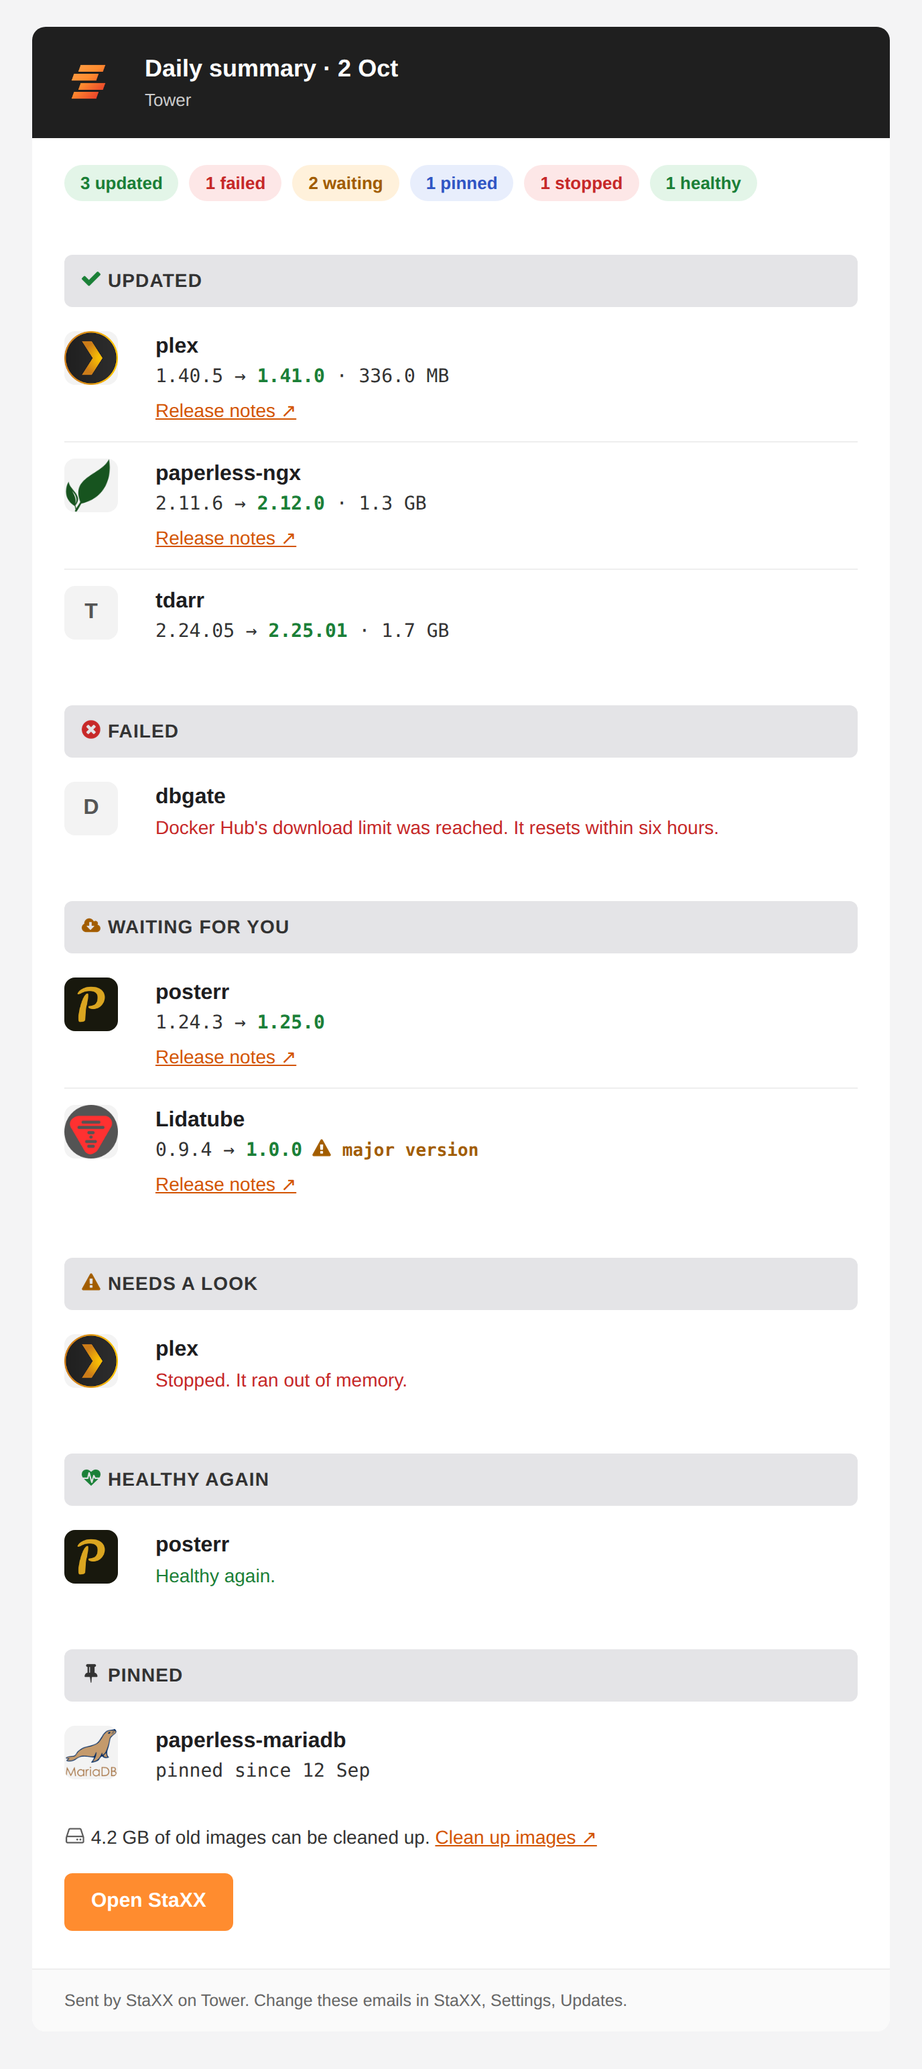
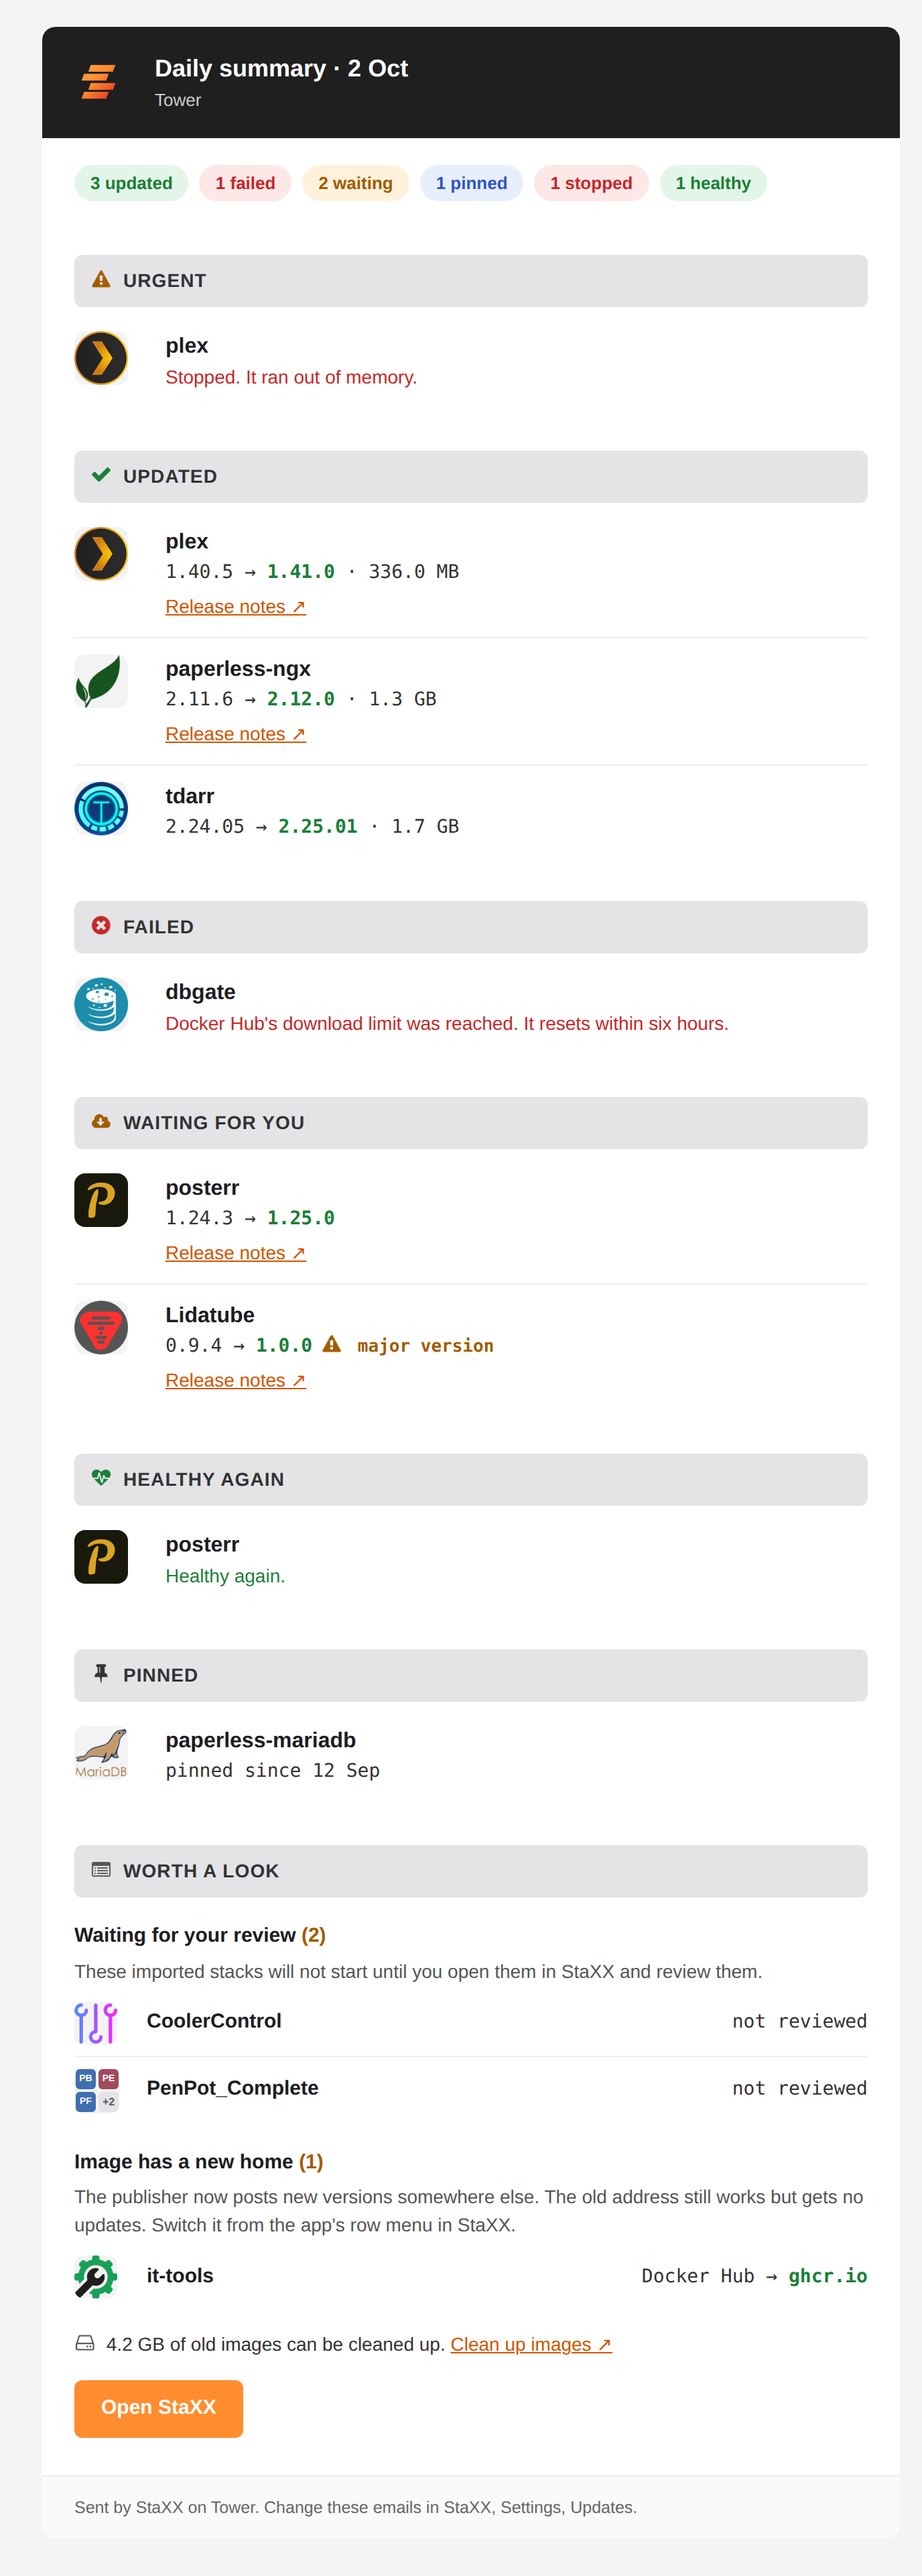
Summary email: coloured letter tiles like the page, no stray attachments
A stack's tiled icon attached every service's picture before cutting the
cells to three plus "+N", so a picture behind "+N" arrived as a loose file.
Only drawn cells are attached now. Letter tiles use the page's two-letter
initials and colours. Guide picture re-taken.

Claude-Session: https://claude.ai/code/session_01Ry2wVp5QX4B8cLWsrzxL6R

Changed region(s): [[0.0312, 0.0, 1.0, 0.9955], [0.5, 0.9021, 0.5312, 0.9332]]

diff --git a/src/staxx/usr/local/emhttp/plugins/staxx/include/Notify.php b/src/staxx/usr/local/emhttp/plugins/staxx/include/Notify.php
@@ -645,10 +645,20 @@ function staxx_notify_pic(string $cid, int $px): string {
   return '<img src="cid:'.$cid.'" width="'.$px.'" height="'.$px.'" alt="" style="display:block;width:'.$px.'px;height:'.$px.'px;border-radius:7px;background:#f3f3f3">';
 }
 
-/** The letter tile an app or stack gets when it has no picture: its first letter, $px square. */
-function staxx_notify_tile(string $name, int $px, int $font): string {
-  $l = htmlspecialchars(mb_strtoupper(mb_substr($name, 0, 1)), ENT_QUOTES | ENT_SUBSTITUTE, 'UTF-8');
-  return '<div style="width:'.$px.'px;height:'.$px.'px;line-height:'.$px.'px;text-align:center;border-radius:7px;background:#f3f3f3;color:#555555;font-weight:700;font-size:'.$font.'px">'.$l.'</div>';
+/** The page's ten tile colours, in index order; must match `.staxx-tile--N` in sheets/staxx.css. */
+const STAXX_NOTIFY_TILE_COLOURS = ['#3f6fb0', '#2f8f7a', '#8a5fb0', '#b06a3f', '#a04a5e', '#4a7f3f', '#7a6a3f', '#3f7f9f', '#8f4f8f', '#5a5f8f'];
+
+/**
+ * The letter tile an app or stack gets when it has no picture, $px square: the
+ * two-letter initials the page uses, white on the colour the page gives that name.
+ * $font is the size for one letter; two letters are drawn at 80% of it.
+ */
+function staxx_notify_tile(string $name, int $px, int $font, int $radius = 7): string {
+  $i = staxx_icon_initials($name);
+  $t = htmlspecialchars((string)$i['text'], ENT_QUOTES | ENT_SUBSTITUTE, 'UTF-8');
+  $bg = STAXX_NOTIFY_TILE_COLOURS[(int)$i['colour'] % 10];
+  if (mb_strlen((string)$i['text']) > 1) $font = (int)round($font * 0.8);
+  return '<div style="width:'.$px.'px;height:'.$px.'px;line-height:'.$px.'px;text-align:center;border-radius:'.$radius.'px;background:'.$bg.';color:#ffffff;font-weight:700;font-size:'.$font.'px">'.$t.'</div>';
 }
 
 /**
@@ -662,23 +672,29 @@ function staxx_notify_stack_mosaic(string $rel, array &$images): string {
   $leaf = ltrim((string)strrchr('/'.$rel, '/'), '/');
   $file = staxx_stack_compose_map()[$rel] ?? '';
   $meta = $file !== '' ? staxx_compose_meta($file) : ['ok' => false, 'services' => []];
-  $cells = []; $seen = [];
+  // Pictures are collected into a scratch copy first: only the cells that end up drawn
+  // are attached, so a picture cut by the "+N" cell never shows as a stray attachment.
+  $cells = []; $seen = []; $scratch = $images;
   foreach (array_keys($meta['services'] ?? []) as $svc) {
-    $cid = staxx_notify_icon_cid(['stack' => $rel, 'service' => (string)$svc], $images);
-    if ($cid === '') { $cells[] = ['l' => mb_strtoupper(mb_substr((string)$svc, 0, 1))]; continue; }
+    $cid = staxx_notify_icon_cid(['stack' => $rel, 'service' => (string)$svc], $scratch);
+    if ($cid === '') { $cells[] = ['l' => (string)$svc]; continue; }
     if (isset($seen[$cid])) continue;
     $seen[$cid] = true;
     $cells[] = ['p' => $cid];
   }
+  if (count($cells) > 4) $cells = array_merge(array_slice($cells, 0, 3), [['m' => count($cells) - 3]]);
+  foreach ($cells as $c) if (isset($c['p']) && isset($scratch[$c['p']])) $images[$c['p']] = $scratch[$c['p']];
   if (count($cells) <= 1) {
     return isset($cells[0]['p']) ? staxx_notify_pic($cells[0]['p'], 32) : staxx_notify_tile($leaf, 32, 15);
   }
-  if (count($cells) > 4) $cells = array_merge(array_slice($cells, 0, 3), [['m' => count($cells) - 3]]);
   while (count($cells) < 4) $cells[] = [];
   $small = 'width:15px;height:15px;line-height:15px;text-align:center;border-radius:3px;background:#e4e4e7;color:#555555;font-weight:700;';
   $draw = static function (array $c) use ($small): string {
     if (isset($c['p'])) return '<img src="cid:'.$c['p'].'" width="15" height="15" alt="" style="display:block;width:15px;height:15px;border-radius:3px">';
-    if (isset($c['l'])) return '<div style="'.$small.'font-size:9px">'.htmlspecialchars((string)$c['l'], ENT_QUOTES | ENT_SUBSTITUTE, 'UTF-8').'</div>';
+    if (isset($c['l'])) {
+      $i = staxx_icon_initials($c['l']);
+      return '<div style="width:15px;height:15px;line-height:15px;text-align:center;border-radius:3px;background:'.STAXX_NOTIFY_TILE_COLOURS[(int)$i['colour'] % 10].';color:#ffffff;font-weight:700;font-size:7px">'.htmlspecialchars((string)$i['text'], ENT_QUOTES | ENT_SUBSTITUTE, 'UTF-8').'</div>';
+    }
     if (isset($c['m'])) return '<div style="'.$small.'font-size:8px">+'.(int)$c['m'].'</div>';
     return '<div style="width:15px;height:15px"></div>';
   };
@@ -809,7 +825,7 @@ function staxx_notify_html(array $events, string $layout): array {
     $cid  = staxx_notify_icon_cid($e, $images);
     $pic  = $cid !== ''
       ? '<img src="cid:'.$cid.'" width="40" height="40" alt="" style="display:block;width:40px;height:40px;border-radius:8px;background:#f3f3f3">'
-      : '<div style="width:40px;height:40px;line-height:40px;text-align:center;border-radius:8px;background:#f3f3f3;color:#555555;font-weight:700;font-size:16px">'.$h(mb_strtoupper(mb_substr($name, 0, 1))).'</div>';
+      : staxx_notify_tile($name, 40, 16, 8);
     return '<table role="presentation" width="100%" cellpadding="0" cellspacing="0" style="'.$line.'"><tr>'
          . '<td width="54" valign="top" style="padding:12px 14px 12px 0">'.$pic.'</td>'
          . '<td valign="top" style="padding:12px 0"><div style="font-weight:700;font-size:16px;color:#1d1d1f">'.$h($name).'</div>'.$inner.'</td></tr></table>';

diff --git a/tests/server/notify.php b/tests/server/notify.php
@@ -489,7 +489,9 @@ ok('a PNG icon goes by cid, one copy', preg_match_all('~Content-ID: <icon-~', $r
 ok('with no resvg: SVG, over-100KB, URL and fa- icons get the letter tile, not a picture', substr_count($html, 'src="cid:icon-') === 1
    && substr_count($html, 'line-height:40px') === 4, (string)substr_count($html, 'line-height:40px'));
 $tile = staxx_notify_label($ev('vec'));
-ok('the tile is the first letter of the app name', has($html, '>'.mb_strtoupper(mb_substr($tile, 0, 1)).'</div>'));
+$tIni = staxx_icon_initials($tile);
+ok('the tile is the page\'s initials of the app name, white on its colour', has($html, 'background:'.STAXX_NOTIFY_TILE_COLOURS[$tIni['colour']].';color:#ffffff;font-weight:700;font-size:')
+   && has($html, '>'.htmlspecialchars($tIni['text']).'</div>'));
 putenv('STAXX_RESVG_BIN');
 ok('page and card are light with inline colours', has($html, 'background:#f4f4f5') && has($html, 'background:#ffffff') && has($html, 'width="640"') && !has($html, '<style'));
 ok('footer and button', has($html, 'Sent by StaXX on Tower. Change these emails in StaXX, Settings, Updates.')
@@ -759,6 +761,7 @@ foreach ([$dRevA, $dRevB] as $d) file_put_contents($d.'/'.STAXX_REVIEW_FILE, '')
 $dTwo  = $mkStack('zzmosaic-two', ['a' => true, 'b' => true]);
 $dSix  = $mkStack('zzmosaic-six', ['a' => true, 'b' => true, 'c' => true, 'd' => true, 'e' => true, 'f' => true]);
 $dNone = $mkStack('zzmosaic-none', ['a' => false, 'b' => false]);
+$dLate = $mkStack('zzmosaic-late', ['a' => false, 'b' => false, 'c' => false, 'd' => true, 'e' => true]);
 staxx_scan_stacks_reset(); staxx_stack_compose_map(true);
 
 // The look events: review stacks by name, then no self-test text for the two replaced findings.
@@ -807,13 +810,25 @@ $m6 = staxx_notify_stack_mosaic('zzmosaic-six', $im);
 ok('mosaic: past four it is three pictures and "+3"', substr_count($m6, '<img src="cid:icon-') === 3 && has($m6, 'font-size:8px">+3</div>'), $m6);
 $im = [];
 $m0 = staxx_notify_stack_mosaic('zzmosaic-none', $im);
-ok('mosaic: services without pictures each get a letter cell, never collapsed', substr_count($m0, 'font-size:9px">A</div>') === 1 && substr_count($m0, 'font-size:9px">B</div>') === 1 && !has($m0, '<img'), $m0);
+$iA = staxx_icon_initials('a'); $iB = staxx_icon_initials('b');
+$cellOf = static fn(array $i): string => 'background:'.STAXX_NOTIFY_TILE_COLOURS[$i['colour']].';color:#ffffff;font-weight:700;font-size:7px">'.htmlspecialchars($i['text']).'</div>';
+ok('mosaic: services without pictures each get a coloured two-letter cell, never collapsed', substr_count($m0, $cellOf($iA)) === 1 && substr_count($m0, $cellOf($iB)) === 1 && !has($m0, '<img'), $m0);
 $im = [];
 $m1 = staxx_notify_stack_mosaic('zzrev-A', $im);
-ok('mosaic: one service with no picture is the ordinary letter tile of the stack name', !has($m1, '<table') && has($m1, 'width:32px;height:32px') && has($m1, '>Z</div>'), $m1);
+$iZ = staxx_icon_initials('zzrev-A');
+ok('mosaic: one service with no picture is the ordinary letter tile of the stack name', !has($m1, '<table') && has($m1, 'width:32px;height:32px')
+   && has($m1, 'background:'.STAXX_NOTIFY_TILE_COLOURS[$iZ['colour']].';color:#ffffff') && has($m1, '>'.htmlspecialchars($iZ['text']).'</div>'), $m1);
 $im = [];
 $hm = staxx_notify_html([$revE], '3');
-ok('HTML: a review row carries the tile and attaches nothing it does not use', has($hm['html'], '>Z</div>') && array_filter(array_keys($hm['images']), static fn($k) => strpos($k, 'icon-') === 0) === []);
+ok('HTML: a review row carries the tile and attaches nothing it does not use', has($hm['html'], '>'.htmlspecialchars($iZ['text']).'</div>') && array_filter(array_keys($hm['images']), static fn($k) => strpos($k, 'icon-') === 0) === []);
+
+// Only the pictures actually drawn are attached.
+$im = [];
+staxx_notify_stack_mosaic('zzmosaic-late', $im);
+ok('mosaic: pictures on services 4 and 5 of five are cut by "+N", so nothing is attached', $im === [], json_encode(array_keys($im)));
+$im = [];
+staxx_notify_stack_mosaic('zzmosaic-six', $im);
+ok('mosaic: six pictures attach exactly the three drawn', count($im) === 3, (string)count($im));
 
 // Icon bytes: the step every picture kept in .staxx goes through on its way into the email.
 $im = [];
@@ -848,7 +863,7 @@ ok('icon bytes: an SVG with no resvg gives no picture', staxx_notify_icon_attach
 putenv('STAXX_RESVG_BIN');
 $im = [];
 ok('icon bytes: HTML or junk gives no picture', staxx_notify_icon_attach('icon-x@staxx', '<html>not found</html>', 'icon', $im) === '' && $im === []);
-foreach (['zzrev-b', 'zzrev-A', 'zzmosaic-two', 'zzmosaic-six', 'zzmosaic-none'] as $n) @exec('rm -rf '.escapeshellarg(staxx_stack_dir($n)));
+foreach (['zzrev-b', 'zzrev-A', 'zzmosaic-two', 'zzmosaic-six', 'zzmosaic-none', 'zzmosaic-late'] as $n) @exec('rm -rf '.escapeshellarg(staxx_stack_dir($n)));
 staxx_scan_stacks_reset(); staxx_stack_compose_map(true);
 
 reset_all();

diff --git a/docs/guide/updates.md b/docs/guide/updates.md
@@ -211,7 +211,11 @@ Every message links to StaXX's update view.
 The summary goes out at the time you set. On a day with nothing to report, nothing is sent. Each
 app in it shows a **Release notes** link, not the notes.
 
-![A daily summary email: chips for 3 updated, 1 failed, 2 waiting, 1 pinned, 1 stopped and 1 healthy, then headings on grey bands for Updated, Failed, Waiting for you, Needs a look, Healthy again and Pinned, each app with its version and a Release notes link, Lidatube marked major version, plex under Needs a look with "Stopped. It ran out of memory.", a line saying 4.2 GB of old images can be cleaned up with a Clean up images link, and the Open StaXX button](../images/guide/updates-email-summary.png)
+**Urgent** comes first and lists apps that stopped with an error, keep restarting or failed their
+health check. **Worth a look** comes last and lists stacks waiting for your review and apps whose
+image now comes from a new address.
+
+![A daily summary email: chips for 3 updated, 1 failed, 2 waiting, 1 pinned, 1 stopped and 1 healthy. An Urgent heading comes first, with plex "Stopped. It ran out of memory." Then headings on grey bands for Updated (plex, paperless-ngx and tdarr with old and new version, size and a Release notes link), Failed (dbgate with "Docker Hub's download limit was reached. It resets within six hours."), Waiting for you (posterr, and Lidatube marked major version), Healthy again (posterr) and Pinned (paperless-mariadb, pinned since 12 Sep). Last, a Worth a look heading: Waiting for your review (2) lists CoolerControl and PenPot_Complete, the second with a tiled icon, both marked not reviewed, and Image has a new home (1) shows it-tools moving from Docker Hub to ghcr.io. Then a line saying 4.2 GB of old images can be cleaned up with a Clean up images link, and the Open StaXX button](../images/guide/updates-email-summary.png)
 
 ### Quiet hours
 

diff --git a/CHANGELOG.md b/CHANGELOG.md
@@ -6,7 +6,7 @@ What changed in StaXX, newest first.
 
 ## Unreleased
 
-- The summary email opens with an Urgent section for apps that crashed, keep restarting or failed their health check. The tidy-up items move to a Worth a look section at the end: stacks waiting for your review, listed by name, and apps whose image now lives at a new address, one row each showing the old and new address. A stack with several apps shows the same tiled icon as in StaXX, and an app whose icon is an .ico file now shows it in emails instead of a letter.
+- The summary email opens with an Urgent section for apps that crashed, keep restarting or failed their health check. The tidy-up items move to a Worth a look section at the end: stacks waiting for your review, listed by name, and apps whose image now lives at a new address, one row each showing the old and new address. A stack with several apps shows the same tiled icon as in StaXX, an app with no picture gets the same coloured letters as in StaXX, and an app whose icon is an .ico file now shows it in emails instead of a letter.
 - A "new home for this image" warning no longer stays behind after the stack has switched to the new address or stopped using that image.
 
 ## 00.05.00 — released 2026-10-09
